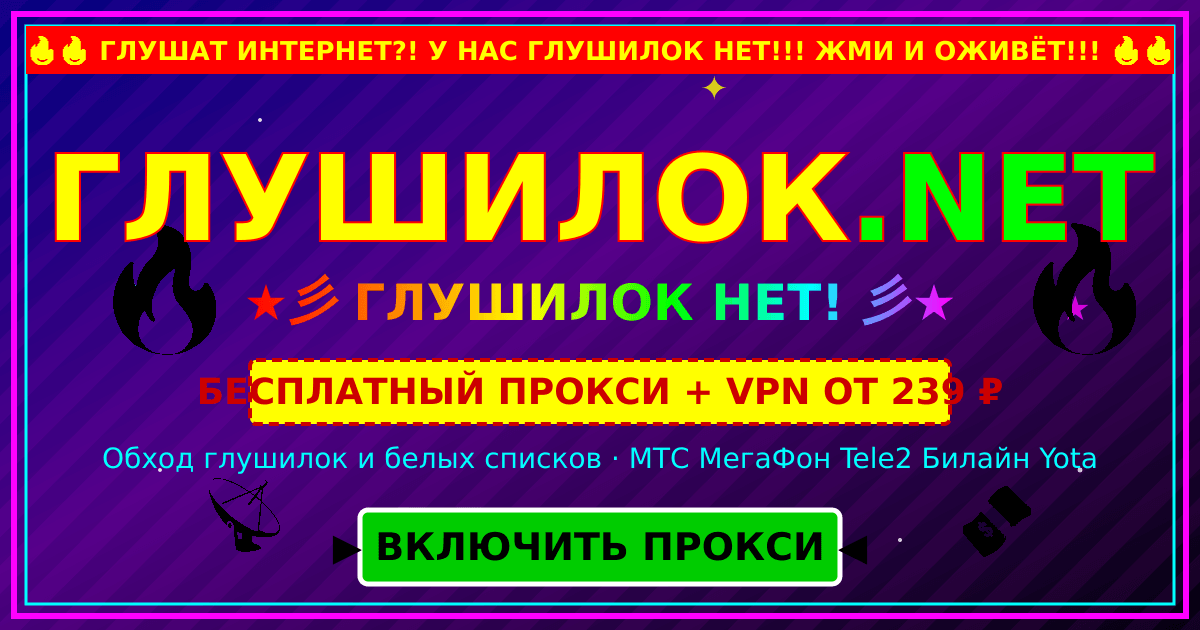
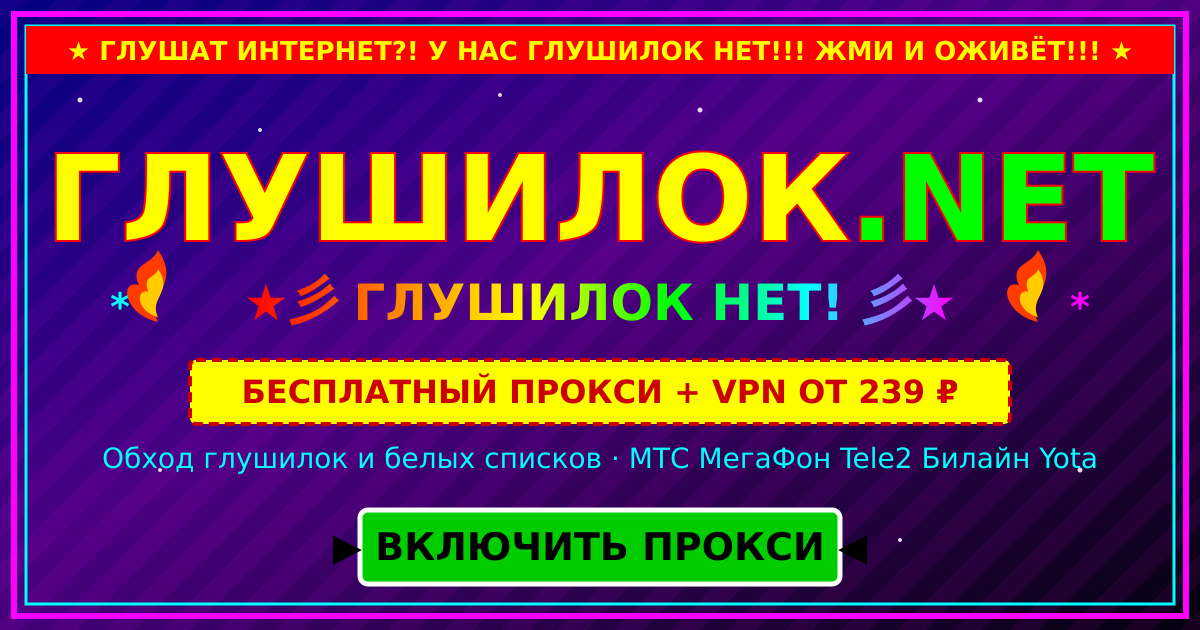
Фиксы: OG бокс+цветное пламя, ENTER-плашка без переноса, hero в одну строку

diff --git a/css/style.css b/css/style.css
@@ -157,11 +157,12 @@ a { text-decoration: none; }
 .page-main { margin-left: auto; margin-right: auto; }
 
 .big-red {
-  font-size: clamp(20px, 6.5vw, 38px);
+  font-size: clamp(17px, 5vw, 34px);
   color: #ff0000;
   font-weight: bold;
   margin: 4px 0;
   text-shadow: 2px 2px 0 #ffff00, 0 0 10px #ff0000;
+  white-space: nowrap;
 }
 .h2-yellow {
   font-size: clamp(14px, 4vw, 22px);
@@ -958,11 +959,13 @@ body.entered .enter-splash { display: none; }
   background: #ffff00;
   color: #cc0000;
   font-weight: bold;
-  font-size: clamp(13px, 4vw, 19px);
+  font-size: clamp(12px, 3.4vw, 18px);
   padding: 8px 12px;
   border: 3px dashed #cc0000;
   display: inline-block;
   margin: 10px auto;
+  max-width: 94%;
+  line-height: 1.35;
   animation: blink 1s ease-in-out infinite;
 }
 .enter-point { animation: pulse 0.7s infinite alternate; }

diff --git a/index.html b/index.html
@@ -142,7 +142,7 @@
     <div class="enter-welcome rainbow">WELCOME TO GLUSHILOK.NET</div>
     <div class="enter-sub blink">★ ГЛУШАТ ИНТЕРНЕТ? У НАС ГЛУШИЛОК НЕТ! ★</div>
     <div class="enter-promise">
-      🎁 ВНУТРИ: <b>БЕСПЛАТНЫЙ ПРОКСИ</b> + VPN ОТ 239₽ 🎁
+      🎁 ВНУТРИ: БЕСПЛАТНЫЙ ПРОКСИ + VPN ОТ 239&#8239;₽ 🎁
     </div>
     <div class="enter-fires">
       <img src="assets/gif/torch.gif" loading="lazy" decoding="async" alt="" width="40">